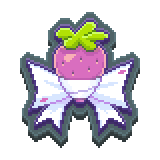
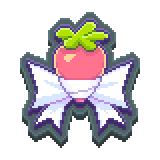
November Fixits
## Eden System
- Jokers no longer reward additional Tokens, except for "Eden's Blessing"
- Reminder: Eden Tokens can be disabled in the Mod-Config!

___

## Jokers
- Nerfed "Afterimage": Copy-amount gets reduced for each Afterimage
- Nerfed "Eternal Fortune": Rarity (Common -> Uncommon)
- Nerfed "Piñata": Chance (1 in 5 -> 1 in 8)
- Nerfed "Pocket Dimension": Mult (X1.5 -> X1.25)
- Updated "Eden's Blessing": Tokens (1 Token repeating -> 3 Tokens once)
- Updated some Joker-Effect visuals

___

## Cross-Mod
- Fixed and updated support for "[JokerDisplay](https://github.com/nh6574/JokerDisplay)"

diff --git a/README.md b/README.md
@@ -51,7 +51,7 @@ visit the [Steammodded Wiki](https://github.com/Steamodded/smods/wiki) to learn 
 | Abandoned Soul | Gains X0.1 Chips<br>when a face card<br>is destroyed<br>(Currently X1 Chips) | $6 | Uncommon | -- |
 | A.C.E. | Add the next 2 to 4<br>playing cards from<br>Deck to scoring hand | $7 | Rare | -- |
 | Adblocker | When Blind is selected,<br>Debuff a random suit<br>in your deck<br>(Debuffed: [Suit])<br>Played debuffed cards<br>give $1 before scoring | $8 | Rare | -- |
-| Afterimage | Copies ability of<br>Joker to the left<br>3 times | $20 | Legendary | -- |
+| Afterimage | Copies ability of<br>Joker to the left<br>3 times<br>Each Afterimage<br>reduces amount of<br>copies by 1 | $20 | Legendary | -- |
 | Agent 47 | When discarding<br>exactly 3 cards,<br>eliminate one<br>at random | $6 | Uncommon | -- |
 | Alpha | +1 Hand for<br>first scoring<br>Stone Card | $6 | Common | Magic |
 | Anchor | X2 Chips<br>Can't be<br>Highlighted | $4 | Common | Ocean |
@@ -82,7 +82,7 @@ visit the [Steammodded Wiki](https://github.com/Steamodded/smods/wiki) to learn 
 | Echoing Joker | Creates 2 Negative<br>copies of the next<br>used Consumable,<br>self destructs | $7 | Rare | -- |
 | Eden's Blessing | X1.5 Chips or Mult,<br>favours the small<br>Grants a<br>Brighter Future<br>when Boss Blind<br>is defeated | $4 | Uncommon | Nature |
 | Emergency Button | Prevents Death and<br>Rerolls all Jokers<br>and Consumables | $6 | Uncommon | -- |
-| Eternal Fortune | +1 Hand, +1 Luck | $4 | Common | Nature |
+| Eternal Fortune | +1 Hand, +1 Luck | $4 | Uncommon | Nature |
 | 57 Leaf Clover | Retrigger all<br>Wild Cards<br>2 times | $8 | Uncommon | Nature |
 | Fire Exin't | Reduce Shop prices<br>by 1% every played<br>and unscored card,<br>resets when Boss<br>Blind is selected<br>(Currently 0%/50%) | $6 | Uncommon | -- |
 | Fortune Cookie | Gains a new random<br>Edition at the start<br>of every Blind<br>Sell this card to<br>apply (This Edition) to<br>a random Joker | $6 | Common | Food |
@@ -120,9 +120,9 @@ visit the [Steammodded Wiki](https://github.com/Steamodded/smods/wiki) to learn 
 | P.E.T. | This Joker gains<br>+2 Mult for every card<br>discarded this round<br>(Currently +0 Mult) | $5 | Common | -- |
 | Pickaxe | Each [Suit] card<br>held in hand has<br>a 50% chance<br>to give $2<br>Suit changes<br>every round<br>100/100 uses left | $5 | Common | Durability |
 | Piggy Bank | When Blind is selected<br>or skipped, spend $2 to<br>add $1 of sell value<br>Starts with $2<br>extra sell value<br>X0.2 Mult for every<br>$4 of sell value<br>(Currently X1 Mult) | $5 | Common | Animal |
-| Piñata | 1 in 5 chance to<br>break open each<br>hand played<br>Gain +1 permanent<br>Consumable slot and<br>fill all Consumable<br>slots when Joker<br>gets destroyed<br>Won't appear again<br>when destroyed | $6 | Common | Animal, Food |
+| Piñata | 1 in 8 chance to<br>break open each<br>hand played<br>Gain +1 permanent<br>Consumable slot and<br>fill all Consumable<br>slots when Joker<br>gets destroyed<br>Won't appear again<br>when destroyed | $6 | Common | Animal, Food |
 | Plastic Key | Destroy this card and<br>create 2 Spectral cards<br>when Boss Blind is defeated<br>(Must have room) | $6 | Uncommon | -- |
-| Pocket Dimension | Cards in your<br>Consumable area<br>give X1.5 Mult<br>+3 Consumable slots | $8 | Rare | Magic, Space |
+| Pocket Dimension | Cards in your<br>Consumable area<br>give X1.25 Mult<br>+3 Consumable slots | $8 | Rare | Magic, Space |
 | Potted Flower | X4 Chips if poker<br>hand contains<br>4 different suits | $6 | Uncommon | Nature |
 | P2W | Spend $2 to<br>gain +30 Mult<br>each Hand | $4 | Common | -- |
 | PUSH UR T3MPRR | BLIND SELECTED,<br>CLOCK IT UP 200%<br>CARD PLAYED,<br>PUSH IT DOWN 6% | $5 | Uncommon | Animal, Music |
